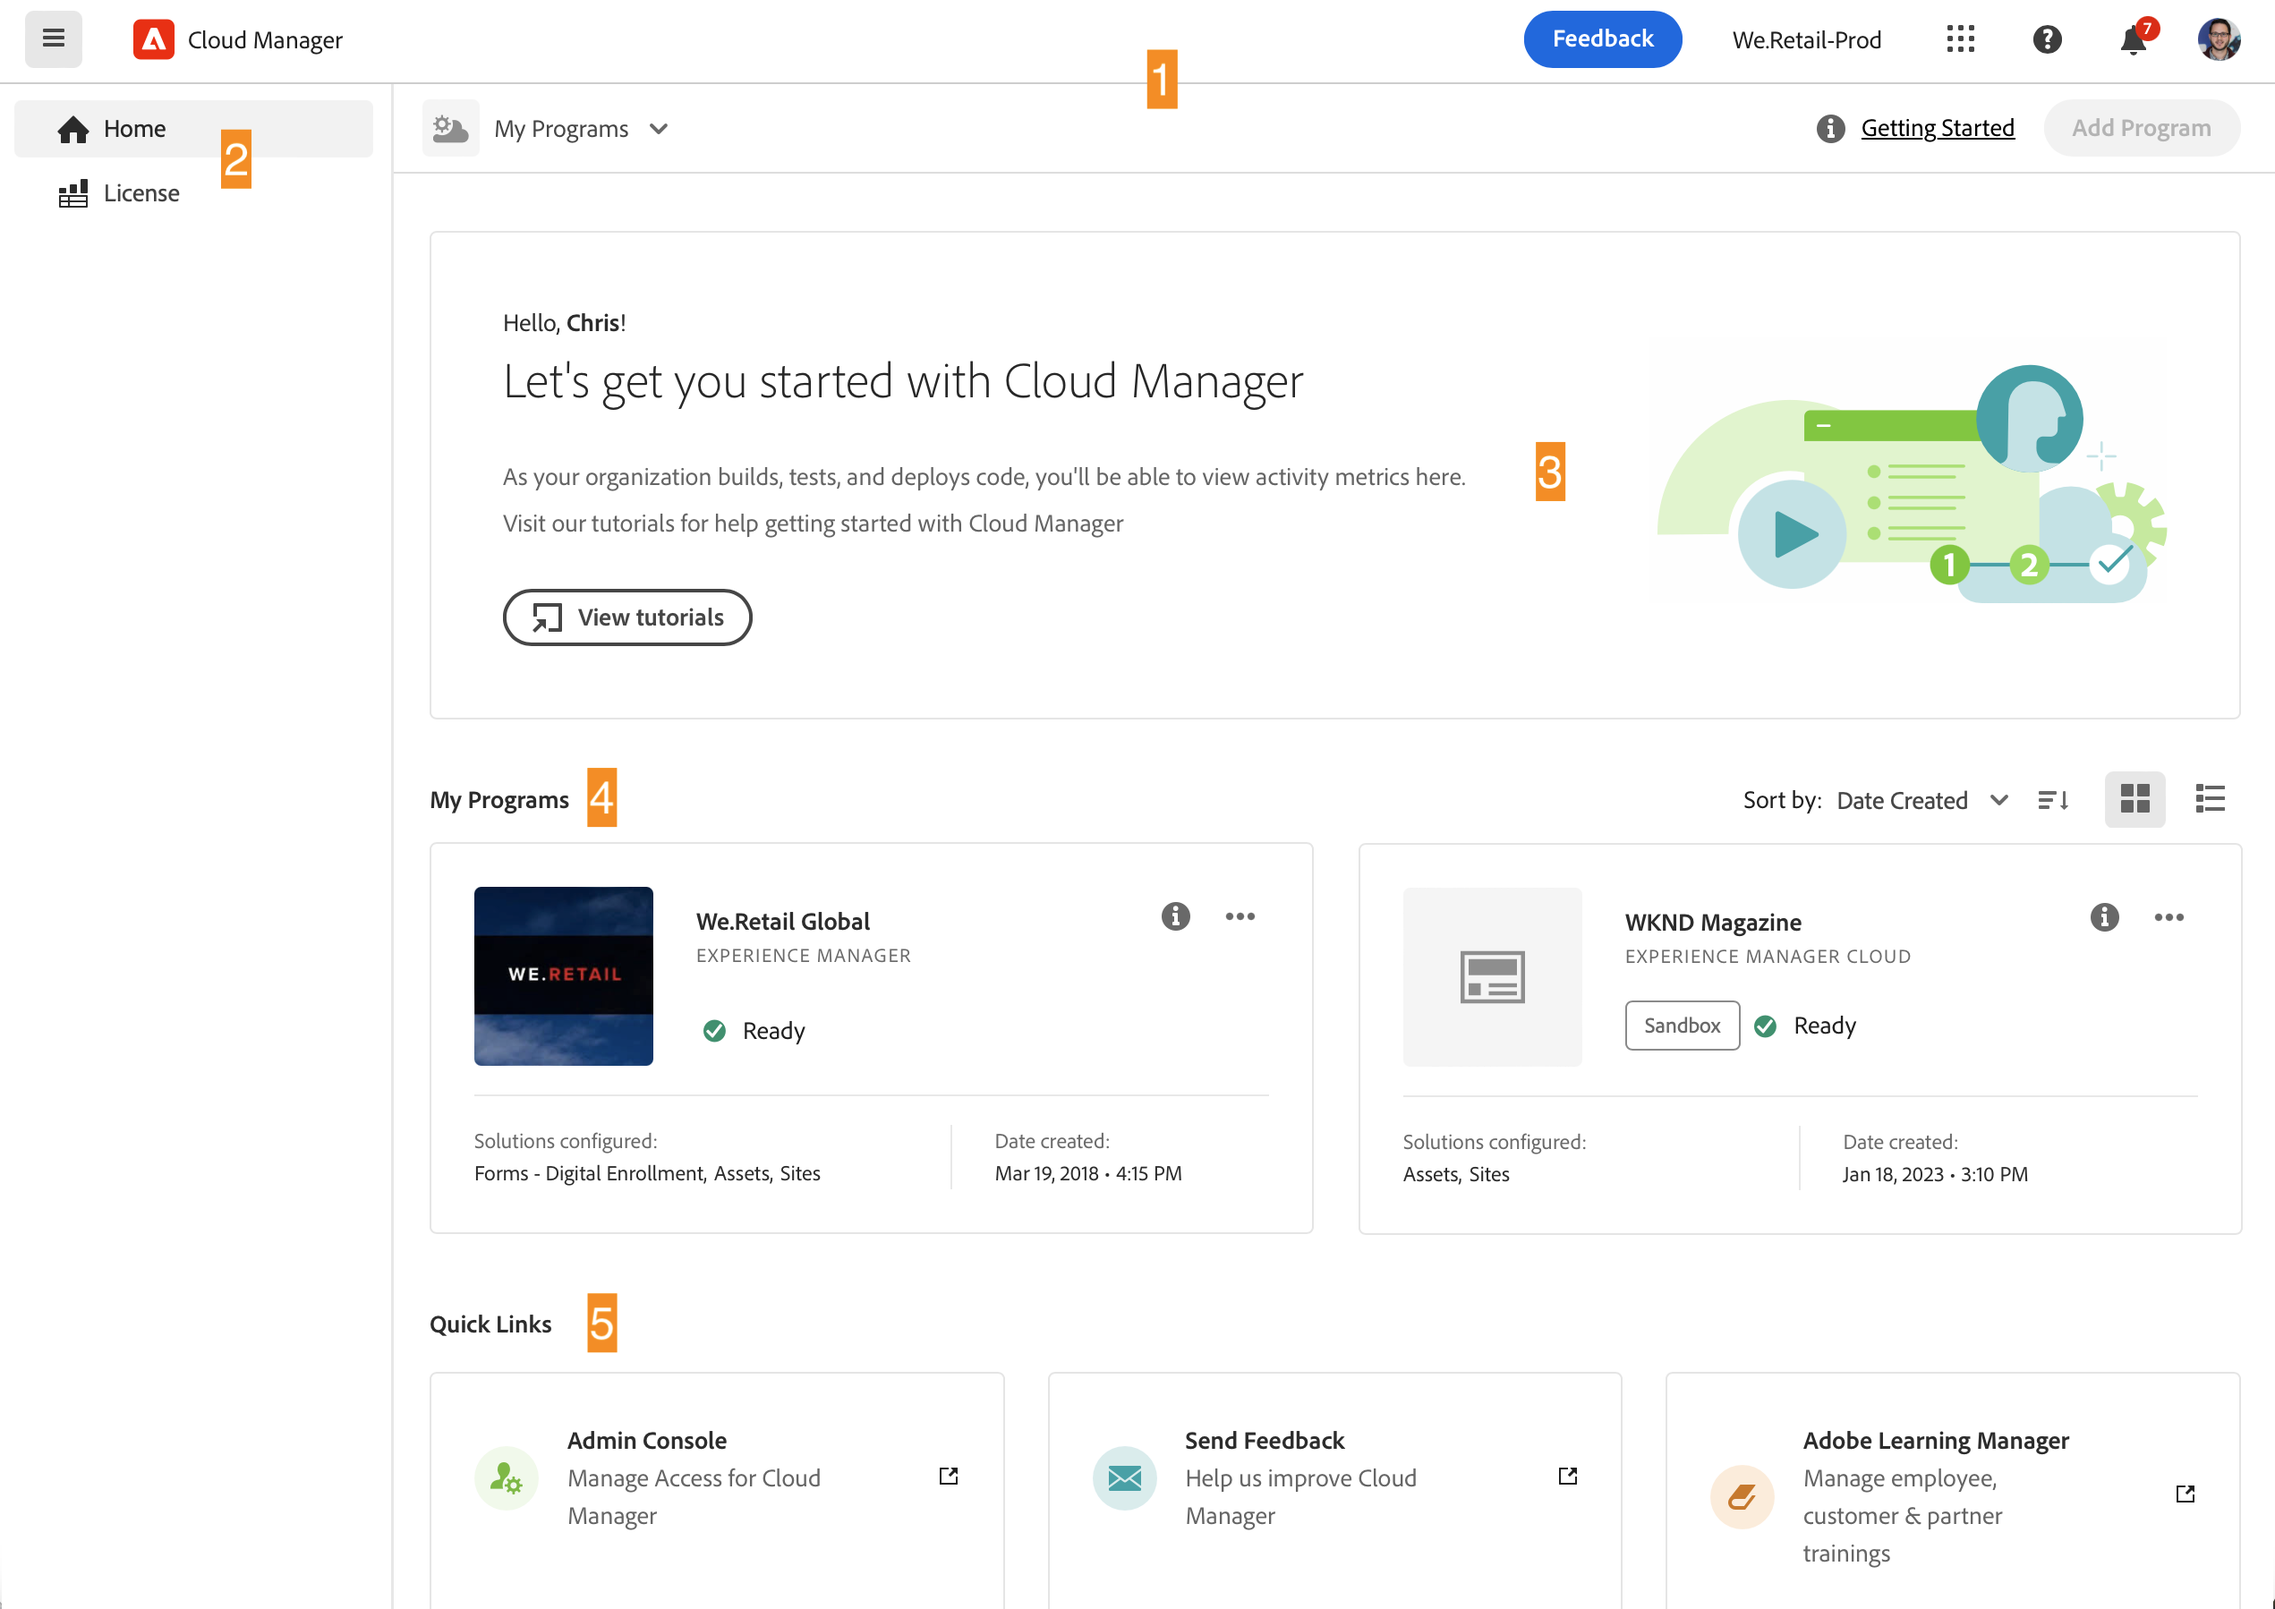
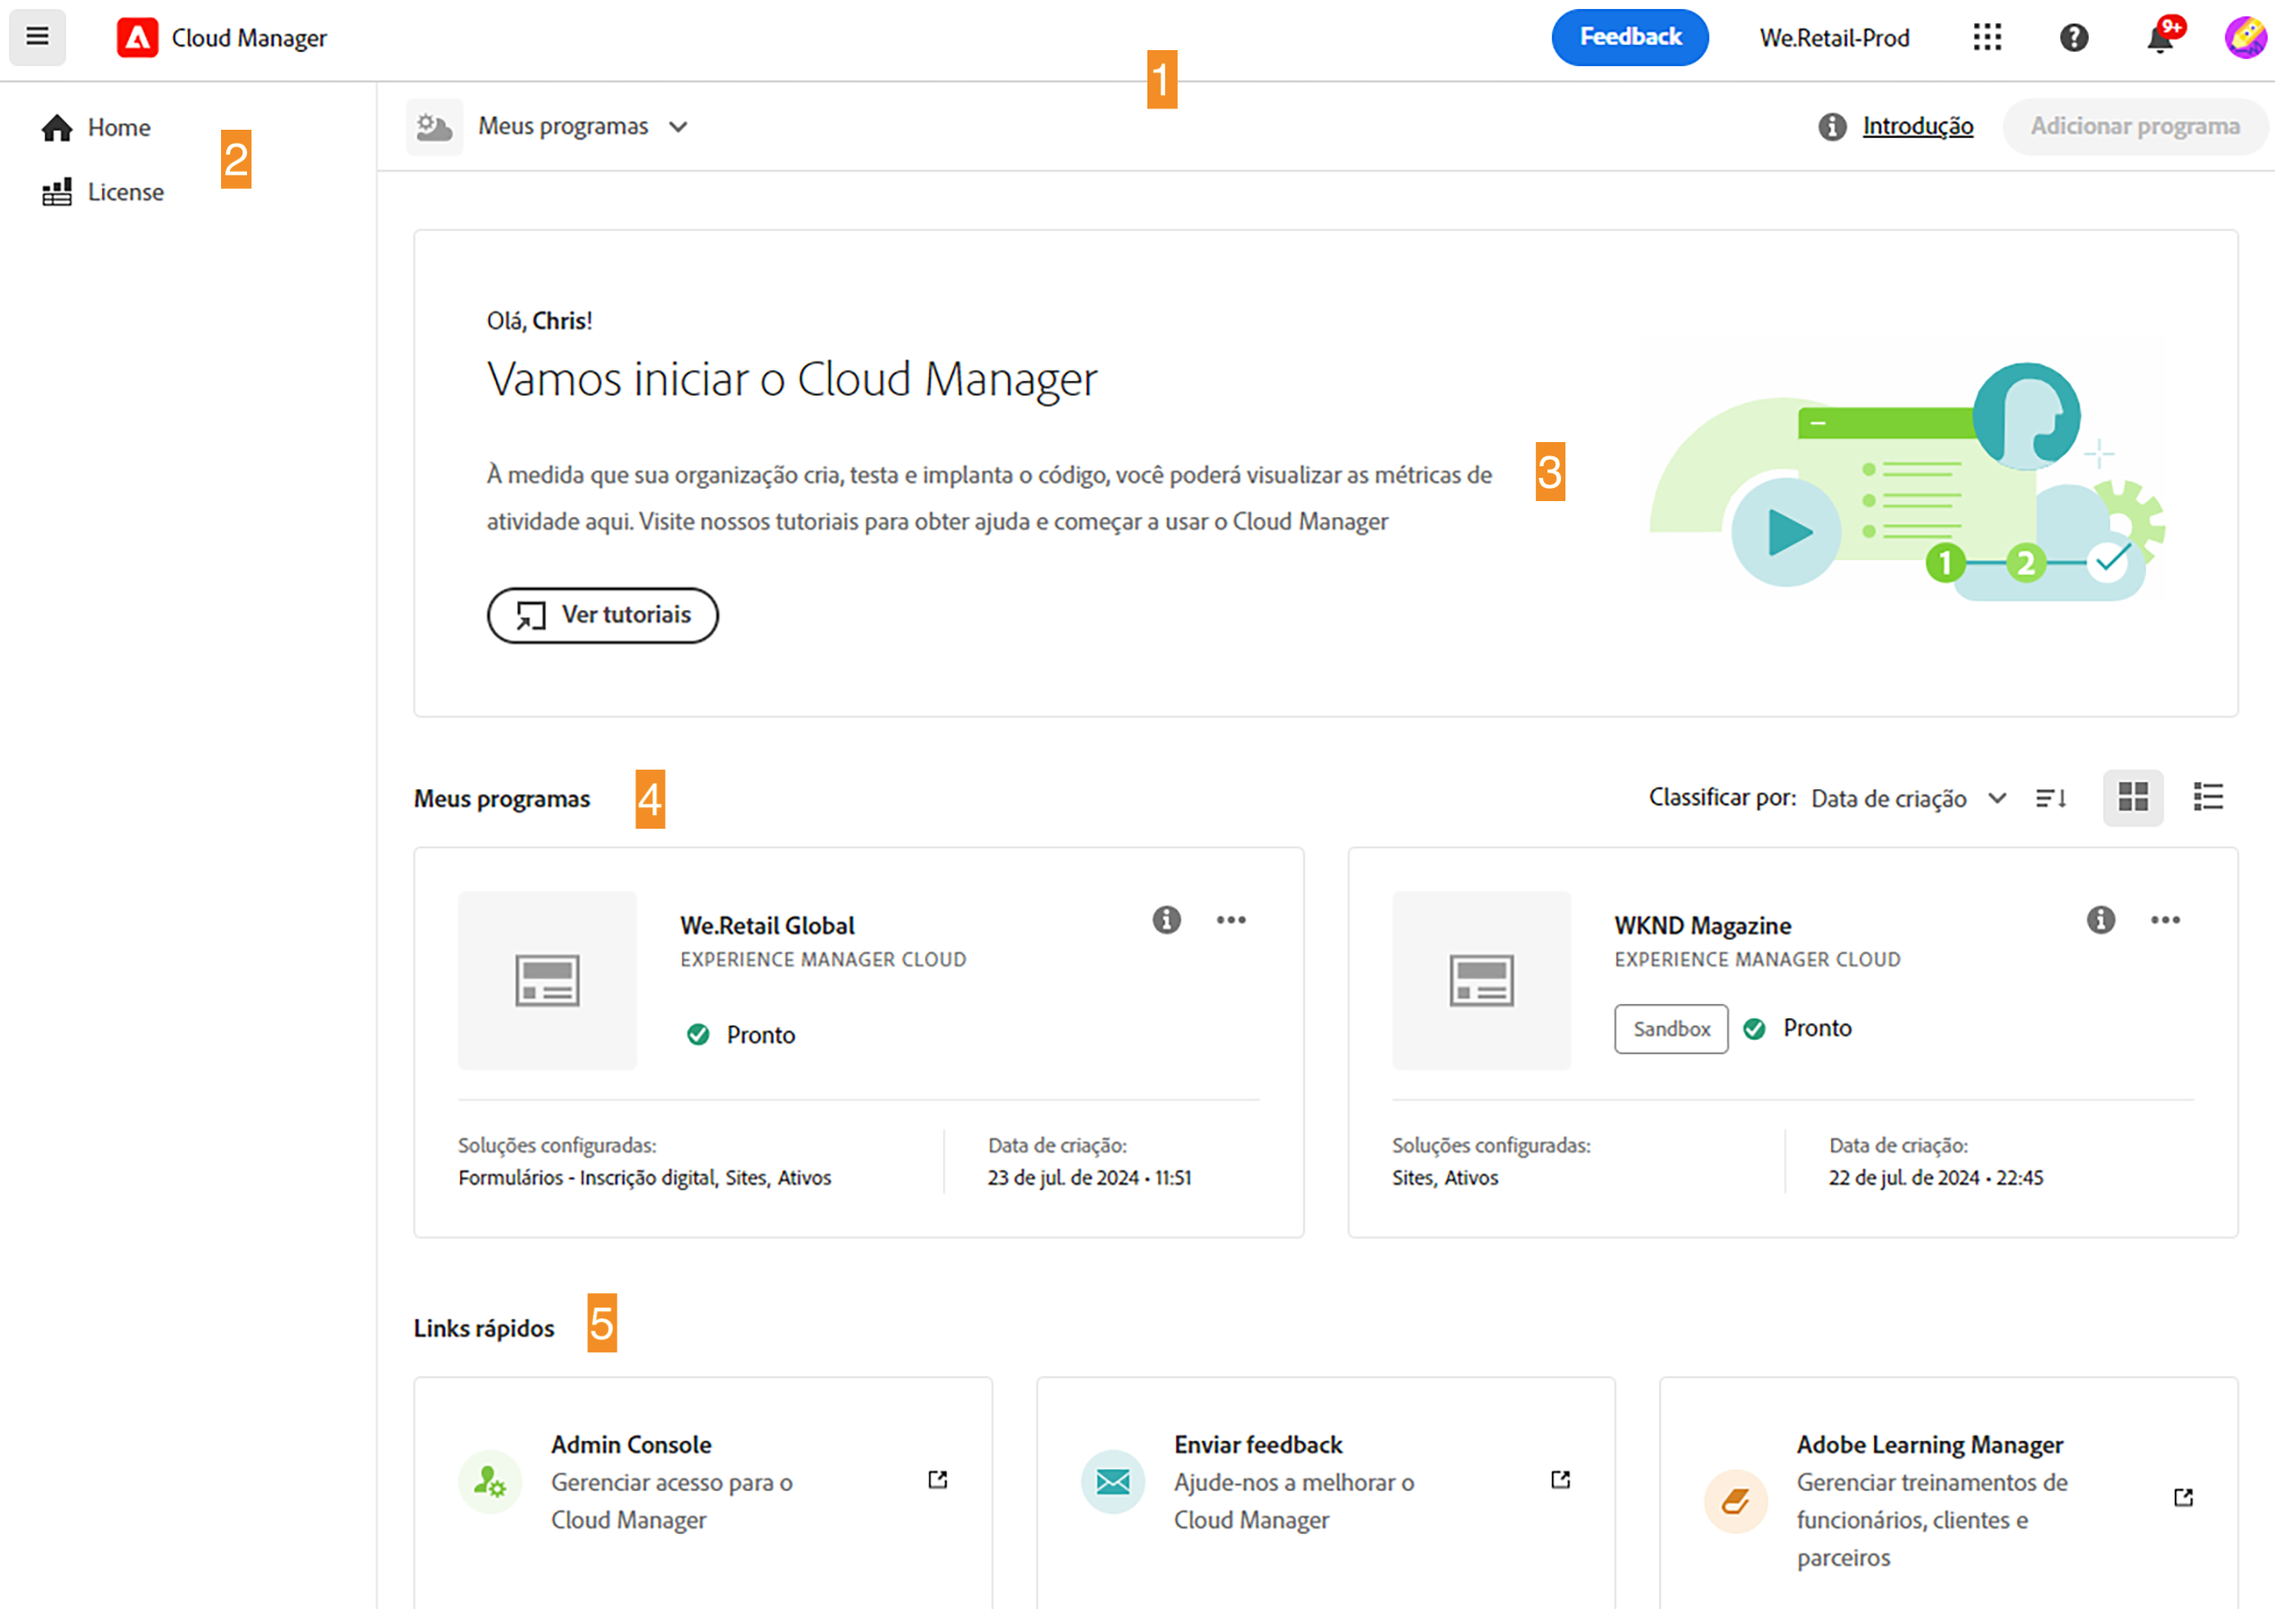
Updated by task 'AUTO_HANDOFF_1721897573765'  Changes for core/source commit https://git.corp.adobe.com/AdobeDocs/experience-manager-cloud-manager.en/commit/8f08c36aaedc05e1a9b75daf674b326cdaec6c25

diff --git a/help/getting-started/navigation.md b/help/getting-started/navigation.md
@@ -3,9 +3,9 @@ title: Navegar pela interface do Cloud Manager
 description: Saiba como a interface do Cloud Manager é organizada e como encontrar e gerenciar seus programas e ambientes.
 exl-id: 9c1545ce-1c6d-417f-a6f4-fe53caef3433
 source-git-commit: d4d9a9f38c5a969f276140dca98731c670547a3d
-workflow-type: tm+mt
+workflow-type: ht
 source-wordcount: '1439'
-ht-degree: 80%
+ht-degree: 100%
 
 ---
 
@@ -28,13 +28,13 @@ Ao fazer logon no Cloud Manager em [my.cloudmanager.adobe.com](https://my.cloudm
 O console Meus programas fornece uma visão geral de todos os programas aos quais você tem acesso na organização selecionada. Ele é composto por várias partes.
 
 1. [Barras de ferramentas](#toolbars-my-programs-toolbars) para seleção de organização, alertas e configurações da conta
-1. Guias que permitem alternar a exibição atual dos programas.
-   * Modo de exibição **Página Inicial** (padrão) que seleciona o modo de exibição **Meus Programas** com uma visão geral de todos os programas
-   * **Licença** que acessa o Painel de Licenças. O painel de licenças se aplica somente aos programas do AEM as a Cloud Service, não aos programas do AMS.
-      * Para determinar o tipo de serviço que seu programa tem (AMS ou AEMaaCS), consulte a [seção Cartões de programa](#program-cards) deste documento.
-   * Observe que o padrão das guias é fechado e pode ser revelado usando o menu de hambúrguer no [cabeçalho do Cloud Manager.](#cloud-manager-header)
-1. [Frases de chamariz e Estatísticas](#cta-statistics) para obter uma visão geral de sua atividade recente
-1. [**Meus Programas** seção](#my-programs-section) com uma visão geral de todos os seus programas
+1. Guias que permitem alternar a exibição atual dos seus programas.
+   * Exibição da **Página Inicial** (padrão) que seleciona a exibição de **Meus programas** com uma visão geral de todos os programas
+   * **Licença** que acessa o painel de licenças. O painel de licenças aplica-se somente aos programas do AEM as a Cloud Service, não aos programas do AMS.
+      * Para determinar o tipo de serviço do seu programa (AMS ou AEMaaCS), consulte a [seção de cartões de programa](#program-cards) deste documento.
+   * Observe que as guias ficam fechadas por padrão e podem ser reveladas por meio do menu de opções no [cabeçalho do Cloud Manager.](#cloud-manager-header)
+1. [Chamadas para ação e estatísticas](#cta-statistics) que fornecem uma visão geral das atividades recentes
+1. Seção [**Meus programas**](#my-programs-section) que fornece uma visão geral de todos os seus programas
 1. [Links rápidos](#quick-links) para acessar facilmente os recursos relacionados
 
 >[!TIP]
@@ -51,9 +51,9 @@ A primeira é o cabeçalho do Cloud Manager, que permanece fixo ao navegar pelo 
 
 ![O cabeçalho da Experience Cloud](assets/experience-cloud-header.png)
 
-1. O menu de hambúrguer que dá acesso a guias que podem levá-lo a partes específicas de um programa individual ou alternar entre o Painel de Licenças e o console **[Meus Programas](#my-programs-console)**, dependendo do contexto.
-   * O painel de licenças se aplica somente aos programas do AEM as a Cloud Service, não aos programas do AMS.
-   * Para determinar o tipo de serviço que seu programa tem (AMS ou AEMaaCS), consulte a [seção Cartões de programa](#program-cards) deste documento.
+1. O menu de opções que dá acesso às guias que podem levar a partes específicas de um programa individual ou alternar entre o painel de licenças e o console **[Meus programas](#my-programs-console)**, dependendo do contexto.
+   * O painel de licenças aplica-se somente aos programas do AEM as a Cloud Service, não aos programas do AMS.
+   * Para determinar o tipo de serviço do seu programa (AMS ou AEMaaCS), consulte a [seção de cartões de programa](#program-cards) deste documento.
 1. O botão Cloud Manager leva de volta ao console Meus programas, independentemente de onde você estiver no Cloud Manager.
 1. Toque ou clique no botão Feedback para enviar feedback à Adobe sobre o Cloud Manager.
 1. O seletor de organização exibe a organização que você está utilizando no momento (neste exemplo, Foundation Internal). Toque ou clique para alternar para outra organização se a Adobe ID estiver associada a mais do que uma.
@@ -73,9 +73,9 @@ A barra de ferramentas do programa fornece links para alternar entre programas e
    * Observe que a jornada de integração foi projetada para o AEM as a Cloud Service e não para o Cloud Service para AMS, apesar de muitos conceitos serem os mesmos.
 1. O botão de ação oferece ações adequadas ao contexto, como a criação de um novo programa.
 
-### Frases de chamariz e estatísticas {#cta-statistics}
+### Chamadas para ação e estatísticas {#cta-statistics}
 
-A seção de frase de chamariz e estatísticas fornece dados agregados para sua organização, por exemplo, se você tiver configurado seus programas com êxito, as estatísticas de suas atividades nos últimos 90 dias poderão ser exibidas, incluindo:
+A seção de chamadas para ação e estatísticas fornece dados agregados para a sua organização. Por exemplo, se você tiver configurado os seus programas com êxito, será possível ver as estatísticas das suas atividades nos últimos 90 dias, incluindo:
 
 * Número de [implantações](/help/using/code-deployment.md)
 * Número de [problemas de qualidade de código](/help/using/code-quality-testing.md) identificados
@@ -83,9 +83,9 @@ A seção de frase de chamariz e estatísticas fornece dados agregados para sua 
 
 Ou se você estiver apenas começando a configurar a organização, encontrará dicas sobre as próximas etapas ou recursos de documentação.
 
-### Seção Meus Programas {#my-programs-section}
+### Seção “Meus programas” {#my-programs-section}
 
-O conteúdo principal do console Meus Programas é a seção **Meus Programas**, que lista seus programas como cartões individuais. Toque ou clique em um cartão para acessar a página **Visão geral do programa** e obter detalhes sobre ele.
+O conteúdo principal do console “Meus programas” é a seção **Meus programas**, que lista os seus programas como cartões individuais. Toque ou clique em um cartão para acessar a página **Visão geral do programa** e obter detalhes sobre ele.
 
 >[!NOTE]
 >
@@ -113,7 +113,7 @@ Cada programa é representado por um cartão (ou linha em uma tabela), o qual fo
 * Nome do programa
 * Tipo de serviço:
    * **Experience Manager** para programas do AMS
-   * **Experience Manager Cloud** para [programas AEM as a Cloud Service](https://experienceleague.adobe.com/br/docs/experience-manager-cloud-service/content/implementing/home)
+   * **Experience Manager Cloud** para [programas do AEM as a Cloud Service](https://experienceleague.adobe.com/br/docs/experience-manager-cloud-service/content/implementing/home)
 * Status
 * Soluções configuradas
 * Data de criação
@@ -137,7 +137,7 @@ A seção de links rápidos fornece acesso aos recursos relacionados usados com 
 
 ## Janela Visão geral do programa {#program-overview}
 
-Após selecionar um programa no console [**Meus Programas**,](#my-programs-console) você será direcionado para a Visão Geral do Programa.
+Depois de selecionar um programa no console [**Meus programas**,](#my-programs-console) haverá um redirecionamento para a visão geral do programa.
 
 ![Visão geral do programa](assets/program-overview.png)
 
